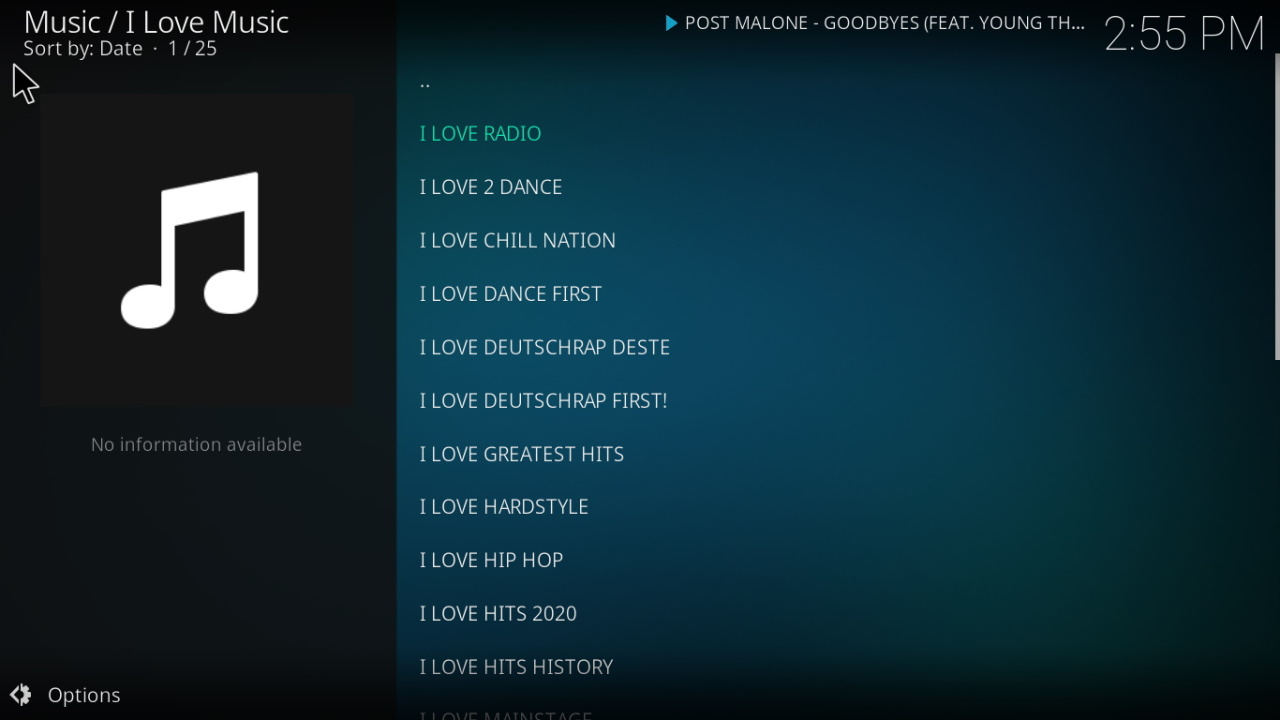
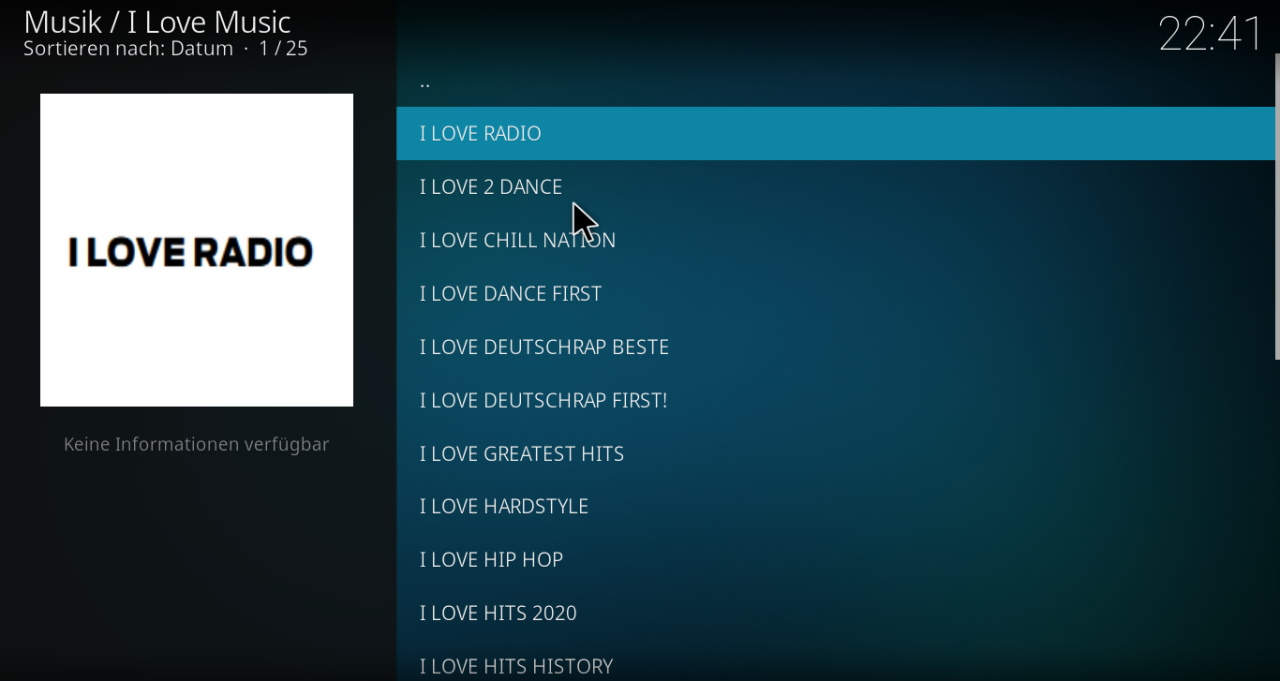
[plugin.audio.ilovemusic] 2.1.1

diff --git a/plugin.audio.ilovemusic/addon.py b/plugin.audio.ilovemusic/addon.py
@@ -2,38 +2,41 @@
 # -*- coding: utf-8 -*-
 import xbmcplugin,xbmcaddon,xbmcgui,os,sys
 
+addon = xbmcaddon.Addon()
+addon_path = addon.getAddonInfo('path').decode('utf-8')
+icons_path = os.path.join(addon_path,'resources','senderlogos')
 xbmcplugin.setContent(handle=int(sys.argv[1]), content='songs')
 				
-def add_item(url,infolabels,):
-    listitem = xbmcgui.ListItem(infolabels['title'])
+def add_item(url,infolabels,img=''):
+    listitem = xbmcgui.ListItem(infolabels['title'],iconImage=img,thumbnailImage=img)
     listitem.setInfo('audio',infolabels)
     listitem.setProperty('IsPlayable','true')
     xbmcplugin.addDirectoryItem(int(sys.argv[1]),url,listitem)
 
-add_item('https://streams.ilovemusic.de/iloveradio1.mp3',{'title':'I LOVE RADIO'})
-add_item('https://streams.ilovemusic.de/iloveradio2.mp3',{'title':'I LOVE 2 DANCE'})
-add_item('https://streams.ilovemusic.de/iloveradio23.mp3',{'title':'I LOVE CHILL NATION'})
-add_item('https://streams.ilovemusic.de/iloveradio103.mp3',{'title':'I LOVE DANCE FIRST'})
-add_item('https://streams.ilovemusic.de/iloveradio6.mp3',{'title':'I LOVE DEUTSCHRAP BESTE'})
-add_item('https://streams.ilovemusic.de/iloveradio104.mp3',{'title':'I LOVE DEUTSCHRAP FIRST!'})
-add_item('https://streams.ilovemusic.de/iloveradio16.mp3',{'title':'I LOVE GREATEST HITS'})
-add_item('https://streams.ilovemusic.de/iloveradio21.mp3',{'title':'I LOVE HARDSTYLE'})
-add_item('https://streams.ilovemusic.de/iloveradio3.mp3',{'title':'I LOVE HIP HOP'})
-add_item('https://streams.ilovemusic.de/iloveradio109.mp3',{'title':'I LOVE HITS 2020'})
-add_item('https://streams.ilovemusic.de/iloveradio12.mp3',{'title':'I LOVE HITS HISTORY'})
-add_item('https://streams.ilovemusic.de/iloveradio22.mp3',{'title':'I LOVE MAINSTAGE'})
-add_item('https://streams.ilovemusic.de/iloveradio5.mp3',{'title':'I LOVE MASHUP'})
-add_item('https://streams.ilovemusic.de/iloveradio10.mp3',{'title':'I LOVE MUSIC AND CHILL'})
-add_item('https://streams.ilovemusic.de/iloveradio14.mp3',{'title':'I LOVE PARTY HARD'})
-add_item('https://streams.ilovemusic.de/iloveradio11.mp3',{'title':'I LOVE POPSTARS'})
-add_item('https://streams.ilovemusic.de/iloveradio18.mp3',{'title':'I LOVE ROBIN SCHULZ'})
-add_item('https://streams.ilovemusic.de/iloveradio7.mp3',{'title':'I LOVE THE BEACH'})
-add_item('https://streams.ilovemusic.de/iloveradio20.mp3',{'title':'I LOVE THE CLUB'})
-add_item('https://streams.ilovemusic.de/iloveradio4.mp3',{'title':'I LOVE THE DJ BY DJ MAG'})
-add_item('https://streams.ilovemusic.de/iloveradio15.mp3',{'title':'I LOVE THE SUN'})
-add_item('https://streams.ilovemusic.de/iloveradio9.mp3',{'title':'I LOVE TOP 100 CHARTS'})
-add_item('https://streams.ilovemusic.de/iloveradio24.mp3',{'title':'I LOVE TRAP NATION'})
-add_item('https://streams.ilovemusic.de/iloveradio13.mp3',{'title':'I LOVE US ONLY RAP RADIO'})
-add_item('https://streams.ilovemusic.de/iloveradio8.mp3',{'title':'I LOVE X-MAS'})
+add_item('https://streams.ilovemusic.de/iloveradio1.mp3',{'title':'I LOVE RADIO'},os.path.join(icons_path,'i_love_radio.png'))
+add_item('https://streams.ilovemusic.de/iloveradio2.mp3',{'title':'I LOVE 2 DANCE'},os.path.join(icons_path,'i_love_2_dance.png'))
+add_item('https://streams.ilovemusic.de/iloveradio23.mp3',{'title':'I LOVE CHILL NATION'},os.path.join(icons_path,'i_love_chill_nation.png'))
+add_item('https://streams.ilovemusic.de/iloveradio103.mp3',{'title':'I LOVE DANCE FIRST'},os.path.join(icons_path,'i_love_dance_first.png'))
+add_item('https://streams.ilovemusic.de/iloveradio6.mp3',{'title':'I LOVE DEUTSCHRAP BESTE'},os.path.join(icons_path,'i_love_deutschrap_beste.png'))
+add_item('https://streams.ilovemusic.de/iloveradio104.mp3',{'title':'I LOVE DEUTSCHRAP FIRST!'},os.path.join(icons_path,'i_love_deutschrap_first.png'))
+add_item('https://streams.ilovemusic.de/iloveradio16.mp3',{'title':'I LOVE GREATEST HITS'},os.path.join(icons_path,'i_love_greatest_hits.png'))
+add_item('https://streams.ilovemusic.de/iloveradio21.mp3',{'title':'I LOVE HARDSTYLE'},os.path.join(icons_path,'i_love_hardstyle.png'))
+add_item('https://streams.ilovemusic.de/iloveradio3.mp3',{'title':'I LOVE HIP HOP'},os.path.join(icons_path,'i_love_hip_hop.png'))
+add_item('https://streams.ilovemusic.de/iloveradio109.mp3',{'title':'I LOVE HITS 2020'},os.path.join(icons_path,'i_love_hits_2020.png'))
+add_item('https://streams.ilovemusic.de/iloveradio12.mp3',{'title':'I LOVE HITS HISTORY'},os.path.join(icons_path,'i_love_hits_history.png'))
+add_item('https://streams.ilovemusic.de/iloveradio22.mp3',{'title':'I LOVE MAINSTAGE'},os.path.join(icons_path,'i_love_mainstage.png'))
+add_item('https://streams.ilovemusic.de/iloveradio5.mp3',{'title':'I LOVE MASHUP'},os.path.join(icons_path,'i_love_mashup.png'))
+add_item('https://streams.ilovemusic.de/iloveradio10.mp3',{'title':'I LOVE MUSIC AND CHILL'},os.path.join(icons_path,'i_love_music_and_chill.png'))
+add_item('https://streams.ilovemusic.de/iloveradio14.mp3',{'title':'I LOVE PARTY HARD'},os.path.join(icons_path,'i_love_party_hard.png'))
+add_item('https://streams.ilovemusic.de/iloveradio11.mp3',{'title':'I LOVE POPSTARS'},os.path.join(icons_path,'i_love_popstars.png'))
+add_item('https://streams.ilovemusic.de/iloveradio18.mp3',{'title':'I LOVE ROBIN SCHULZ'},os.path.join(icons_path,'i_love_robin_schulz.png'))
+add_item('https://streams.ilovemusic.de/iloveradio7.mp3',{'title':'I LOVE THE BEACH'},os.path.join(icons_path,'i_love_the_beach.png'))
+add_item('https://streams.ilovemusic.de/iloveradio20.mp3',{'title':'I LOVE THE CLUB'},os.path.join(icons_path,'i_love_the_club.png'))
+add_item('https://streams.ilovemusic.de/iloveradio4.mp3',{'title':'I LOVE THE DJ BY DJ MAG'},os.path.join(icons_path,'i_love_the_dj_by_dj_mag.png'))
+add_item('https://streams.ilovemusic.de/iloveradio15.mp3',{'title':'I LOVE THE SUN'},os.path.join(icons_path,'i_love_the_sun.png'))
+add_item('https://streams.ilovemusic.de/iloveradio9.mp3',{'title':'I LOVE TOP 100 CHARTS'},os.path.join(icons_path,'i_love_the_top_100_charts.png'))
+add_item('https://streams.ilovemusic.de/iloveradio24.mp3',{'title':'I LOVE TRAP NATION'},os.path.join(icons_path,'i_love_trap_nation.png'))
+add_item('https://streams.ilovemusic.de/iloveradio13.mp3',{'title':'I LOVE US ONLY RAP RADIO'},os.path.join(icons_path,'i_love_us_only_rap_radio.png'))
+add_item('https://streams.ilovemusic.de/iloveradio8.mp3',{'title':'I LOVE X-MAS'},os.path.join(icons_path,'i_love_X-Mas.png'))
 
 xbmcplugin.endOfDirectory( handle=int( sys.argv[ 1 ] ), succeeded=True, updateListing=False, cacheToDisc=True)
